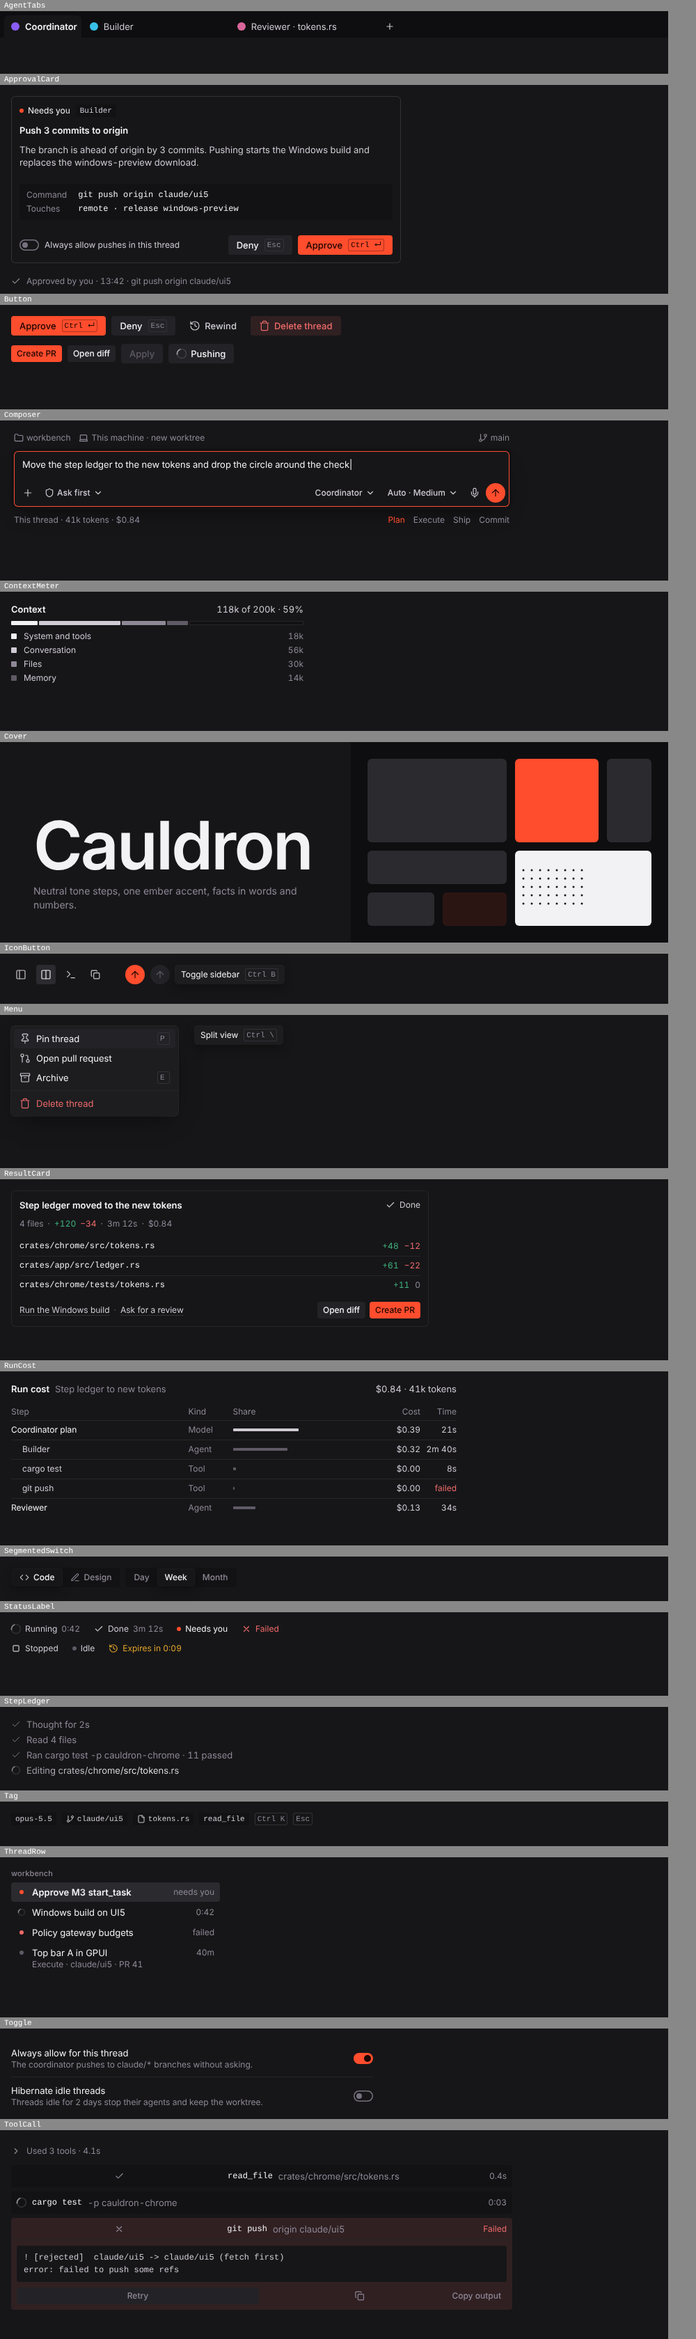
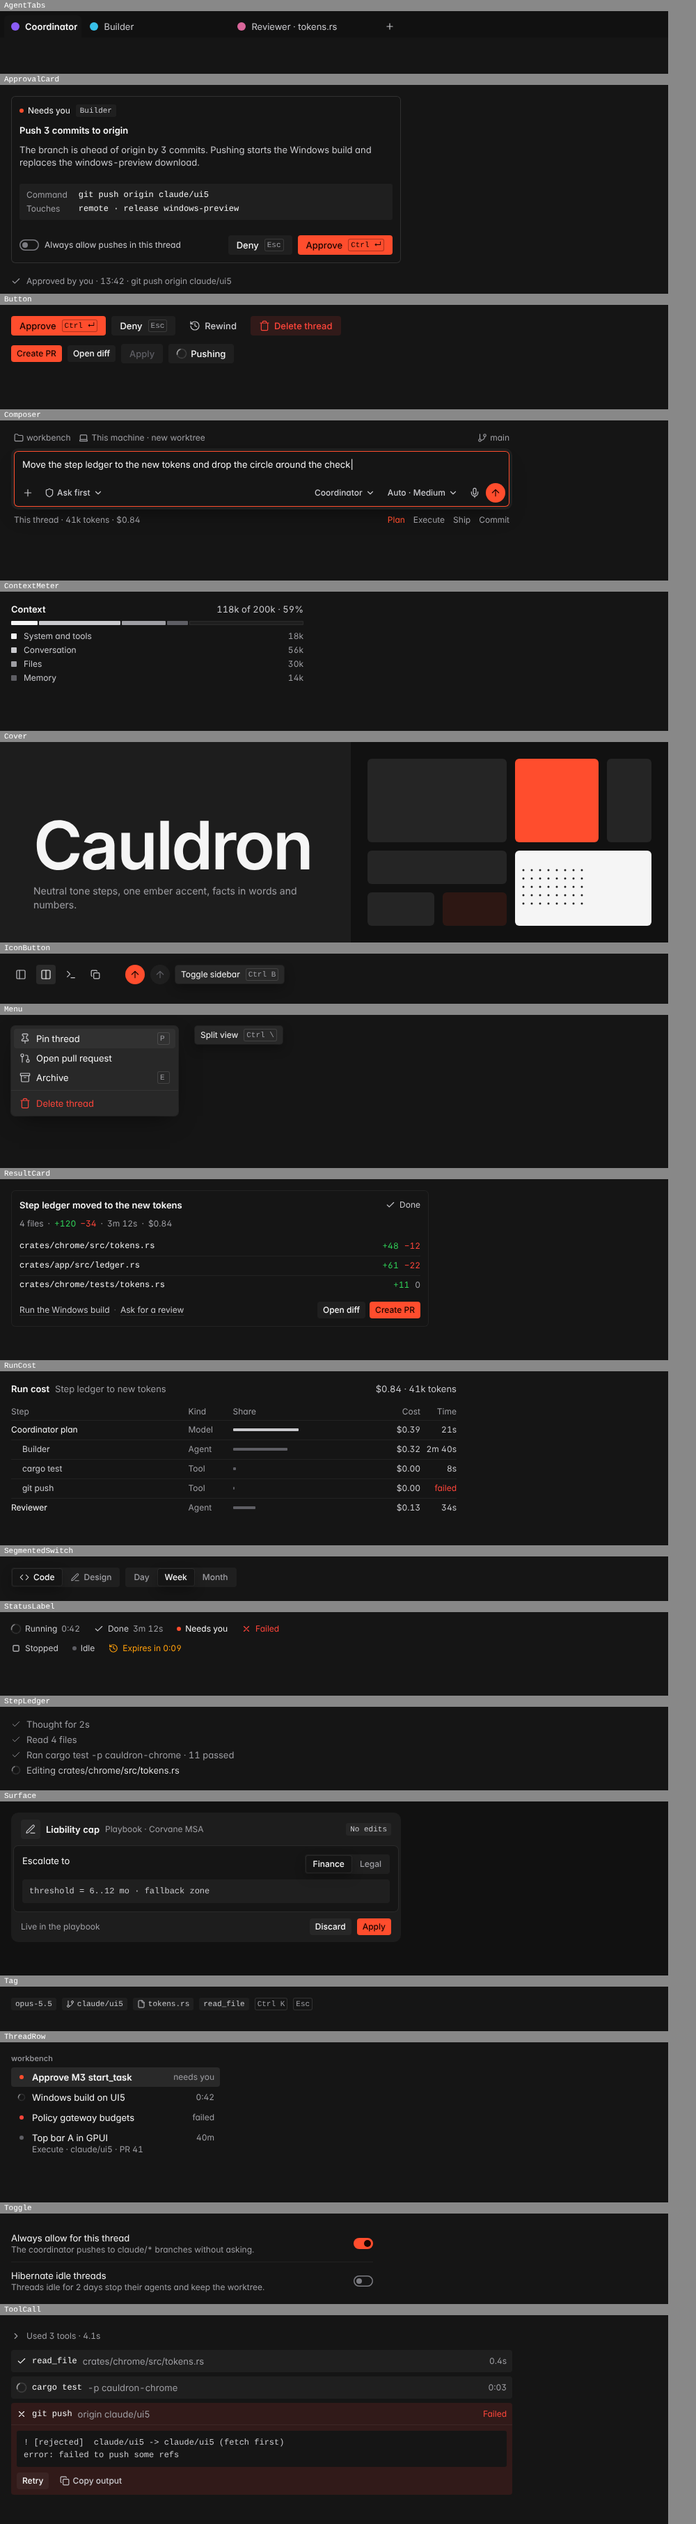
Rebase the Cauldron design system on Tuff UI: Geist, Tuff surface ramp, Shell/Panel/Inset [skip ci]
Claude-Session: https://claude.ai/code/session_01LKPD2KK9THFLwwwj91HXCf

Changed region(s): [[0.0, 0.0, 0.961, 1.0]]

diff --git a/design/cauldron-design-system/tokens.css b/design/cauldron-design-system/tokens.css
@@ -1,7 +1,7 @@
 /* Cauldron — generated from tokens.json */
-:root, [data-theme="light"] { --bg: #ecebee; --frame: #f3f2f4; --card: #ffffff; --raised: #ffffff; --inset: #f5f4f6; --hover: #ebeaed; --selected: #e6e4e9; --line: #e3e1e6; --line-strong: #d6d3db; --line-control: #8a8592; --fg: #18171b; --fg-2: #3f3c45; --fg-3: #68636f; --fg-4: #a7a2ae; --accent: #c9330f; --accent-hover: #b02b0a; --on-accent: #ffffff; --accent-soft: rgba(201,51,15,0.08); --focus: var(--accent); --ok: #23784f; --warn: #8a5a00; --bad: #b83232; --bad-soft: rgba(184,50,50,0.08); --warn-soft: rgba(138,90,0,0.10); --diff-add: rgba(35,120,79,0.10); --diff-del: rgba(184,50,50,0.08); --agent-1: #8b5cf6; --agent-2: #38c0e8; --agent-3: #3fb27f; --agent-4: #e0a32a; --agent-5: #d9669a; --agent-6: #5b8cf0; --agent-7: #e05656; --agent-8: #9a82f5; --agent-9: #e0703a; --shadow-menu: 0 12px 32px -12px rgba(20,18,24,0.28), 0 0 0 1px rgba(20,18,24,0.08); --shadow-tip: 0 6px 16px rgba(20,18,24,0.14), 0 0 0 1px rgba(20,18,24,0.06); --shadow-box: 0 16px 32px -18px rgba(20,18,24,0.30); }
-[data-theme="dark"] { --bg: #08080a; --frame: #0e0e10; --card: #161618; --raised: #1d1d20; --inset: #121214; --hover: #232327; --selected: #2a2a2f; --line: #26262a; --line-strong: #323237; --line-control: #77717f; --fg: #f2f1f4; --fg-2: #cfcad4; --fg-3: #8e8896; --fg-4: #5f5a66; --accent: #ff4d2d; --accent-hover: #ff6a4d; --on-accent: #1a0400; --accent-soft: rgba(255,77,45,0.12); --focus: var(--accent); --ok: #3fb27f; --warn: #e0a32a; --bad: #ef6a6a; --bad-soft: rgba(239,106,106,0.12); --warn-soft: rgba(224,163,42,0.12); --diff-add: rgba(63,178,127,0.14); --diff-del: rgba(239,106,106,0.12); --agent-1: #8b5cf6; --agent-2: #38c0e8; --agent-3: #3fb27f; --agent-4: #e0a32a; --agent-5: #d9669a; --agent-6: #5b8cf0; --agent-7: #e05656; --agent-8: #9a82f5; --agent-9: #e0703a; --shadow-menu: 0 12px 32px -12px rgba(0,0,0,0.6), 0 0 0 1px rgba(255,255,255,0.08); --shadow-tip: 0 6px 16px rgba(0,0,0,0.3), 0 0 0 1px rgba(255,255,255,0.06); --shadow-box: 0 16px 32px -18px rgba(0,0,0,0.65); color-scheme: dark; }
-:root { --space-2: 2px; --space-4: 4px; --space-6: 6px; --space-8: 8px; --space-12: 12px; --space-16: 16px; --space-20: 20px; --space-24: 24px; --space-32: 32px; --space-48: 48px; --radius-window: 10px; --radius-card: 6px; --radius-control: 4px; --radius-inner: 3px; --radius-round: 999px; --size-tag: 18px; --size-control-sm: 24px; --size-control: 28px; --size-control-lg: 32px; --size-row-2: 44px; --size-icon: 16px; --size-icon-sm: 14px; --dur-swap: 120ms; --dur-exit: 140ms; --dur-menu: 160ms; --dur-panel: 240ms; --dur-layout: 300ms; --dur-reduced: 150ms; --ease-settle: cubic-bezier(0.32, 0.72, 0, 1); --ease-out: cubic-bezier(0.23, 1, 0.32, 1); --font-sans: "Segoe UI Variable Text", "Segoe UI", -apple-system, "SF Pro Text", system-ui, sans-serif; --font-display: "Segoe UI Variable Display", "Segoe UI", -apple-system, "SF Pro Display", system-ui, sans-serif; --font-mono: "Cascadia Mono", "SF Mono", ui-monospace, Menlo, Consolas, monospace; }
+:root, [data-theme="light"] { --bg: #f7f7f8; --frame: #f7f7f8; --card: #eeeef0; --panel: #ffffff; --raised: #e4e4e7; --inset: rgba(28,28,31,0.04); --hover: rgba(28,28,31,0.05); --selected: rgba(28,28,31,0.09); --line: rgba(28,28,31,0.07); --line-strong: rgba(28,28,31,0.14); --line-control: #7e7e86; --fg: #1c1c1f; --fg-2: #45454c; --fg-3: #62626a; --fg-4: #a6a6ad; --accent: #bf2f0c; --accent-hover: #a82809; --on-accent: #ffffff; --accent-soft: rgba(191,47,12,0.08); --focus: var(--accent); --ok: #23784f; --warn: #8a5a00; --bad: #b83232; --bad-soft: rgba(184,50,50,0.08); --warn-soft: rgba(138,90,0,0.10); --diff-add: rgba(35,120,79,0.10); --diff-del: rgba(184,50,50,0.08); --agent-1: #8b5cf6; --agent-2: #38c0e8; --agent-3: #3fb27f; --agent-4: #e0a32a; --agent-5: #d9669a; --agent-6: #5b8cf0; --agent-7: #e05656; --agent-8: #9a82f5; --agent-9: #e0703a; --shadow-menu: 0 12px 32px -12px rgba(20,18,24,0.28), 0 0 0 1px rgba(20,18,24,0.08); --shadow-tip: 0 6px 16px rgba(20,18,24,0.14), 0 0 0 1px rgba(20,18,24,0.06); --shadow-box: 0 16px 32px -18px rgba(20,18,24,0.30); }
+[data-theme="dark"] { --bg: #111111; --frame: #111111; --card: #1d1d1d; --panel: #151515; --raised: #282828; --inset: rgba(245,245,245,0.05); --hover: rgba(245,245,245,0.05); --selected: rgba(245,245,245,0.09); --line: rgba(255,255,255,0.06); --line-strong: rgba(255,255,255,0.12); --line-control: #7c7c82; --fg: #f5f5f5; --fg-2: #c9c9cd; --fg-3: #9e9ea3; --fg-4: #5e5e64; --accent: #ff4d2d; --accent-hover: #ff6a4d; --on-accent: #1a0400; --accent-soft: rgba(255,77,45,0.12); --focus: var(--accent); --ok: #30d158; --warn: #ff9f0a; --bad: #ff453a; --bad-soft: rgba(255,69,58,0.12); --warn-soft: rgba(255,159,10,0.12); --diff-add: rgba(48,209,88,0.14); --diff-del: rgba(255,69,58,0.12); --agent-1: #8b5cf6; --agent-2: #38c0e8; --agent-3: #3fb27f; --agent-4: #e0a32a; --agent-5: #d9669a; --agent-6: #5b8cf0; --agent-7: #e05656; --agent-8: #9a82f5; --agent-9: #e0703a; --shadow-menu: 0 12px 32px -12px rgba(0,0,0,0.6), 0 0 0 1px rgba(255,255,255,0.08); --shadow-tip: 0 6px 16px rgba(0,0,0,0.3), 0 0 0 1px rgba(255,255,255,0.06); --shadow-box: 0 16px 32px -18px rgba(0,0,0,0.65); color-scheme: dark; }
+:root { --space-2: 2px; --space-4: 4px; --space-6: 6px; --space-8: 8px; --space-12: 12px; --space-16: 16px; --space-20: 20px; --space-24: 24px; --space-32: 32px; --space-48: 48px; --radius-window: 10px; --radius-card: 6px; --radius-control: 4px; --radius-inner: 3px; --radius-round: 999px; --size-tag: 18px; --size-control-sm: 24px; --size-control: 28px; --size-control-lg: 32px; --size-row-2: 44px; --size-icon: 16px; --size-icon-sm: 14px; --dur-swap: 120ms; --dur-exit: 140ms; --dur-menu: 160ms; --dur-panel: 240ms; --dur-layout: 300ms; --dur-reduced: 150ms; --ease-settle: cubic-bezier(0.32, 0.72, 0, 1); --ease-out: cubic-bezier(0.23, 1, 0.32, 1); --font-sans: Geist, "Segoe UI Variable Text", "Segoe UI", -apple-system, system-ui, sans-serif; --font-display: Geist, "Segoe UI Variable Display", "Segoe UI", -apple-system, system-ui, sans-serif; --font-mono: "Geist Mono", "Cascadia Mono", "SF Mono", ui-monospace, Menlo, Consolas, monospace; }
 .caption { font-family: var(--font-sans); font-size: 11px; line-height: 14px; font-weight: 500; letter-spacing: 0.01em; }
 .meta { font-family: var(--font-sans); font-size: 12px; line-height: 16px; font-weight: 400; }
 .label { font-family: var(--font-sans); font-size: 12px; line-height: 16px; font-weight: 500; }

diff --git a/design/cauldron-design-system/components/bundle.css b/design/cauldron-design-system/components/bundle.css
@@ -1,6 +1,7 @@
 /* Cauldron components. Every value comes from tokens.css; nothing here defines a colour. */
-.cx-root{margin:0;padding:16px;background:var(--card);color:var(--fg);font-family:var(--font-sans);font-size:13px;line-height:18px;font-variant-numeric:tabular-nums;-webkit-font-smoothing:antialiased}
+.cx-root{margin:0;padding:16px;font-feature-settings:"cv11","ss01";background:var(--panel);color:var(--fg);font-family:var(--font-sans);font-size:13px;line-height:18px;font-variant-numeric:tabular-nums;-webkit-font-smoothing:antialiased}
 .cx-root.on-frame{background:var(--frame)}
+.cx-root.on-shell{background:var(--card)}
 .cx-root *{box-sizing:border-box}
 .cx-stack{display:grid;gap:12px;align-content:start}
 .cx-row{display:flex;align-items:center;gap:8px;flex-wrap:wrap}
@@ -50,7 +51,7 @@
 /* Segmented switch */
 .cx-seg{display:inline-flex;padding:2px;gap:2px;border-radius:var(--radius-control);background:var(--inset)}
 .cx-seg button{display:inline-flex;align-items:center;gap:6px;height:var(--size-control-sm);padding:0 10px;border:0;border-radius:var(--radius-inner);background:transparent;color:var(--fg-3);font:500 12px/16px var(--font-sans);cursor:pointer}
-.cx-seg button[aria-pressed="true"]{background:var(--card);color:var(--fg);box-shadow:var(--shadow-tip)}
+.cx-seg button[aria-pressed="true"]{background:var(--panel);color:var(--fg);box-shadow:var(--shadow-tip)}
 .cx-seg .cx-ico{width:14px;height:14px}
 
 /* Toggle */
@@ -83,7 +84,7 @@
 .cx-tabs{display:flex;align-items:flex-end;gap:2px;background:var(--frame);padding:6px 6px 0}
 .cx-tab{display:flex;align-items:center;gap:8px;height:var(--size-control-lg);min-width:72px;max-width:210px;flex:1 1 160px;padding:0 6px 0 10px;border-radius:var(--radius-card) var(--radius-card) 0 0;color:var(--fg-2);font-size:13px}
 .cx-tab:hover{background:var(--hover)}
-.cx-tab.on{background:var(--card);color:var(--fg);font-weight:600}
+.cx-tab.on{background:var(--panel);color:var(--fg);font-weight:600}
 .cx-tab .av{width:12px;height:12px;border-radius:50%;flex:none}
 .cx-tab .nm{flex:1;min-width:0;overflow:hidden;text-overflow:ellipsis;white-space:nowrap}
 .cx-tab .x{opacity:0}
@@ -107,11 +108,11 @@
 .cx-tool.bad{background:var(--bad-soft)}
 .cx-tool.bad .end{color:var(--bad)}
 .cx-tool .bd{display:grid;gap:8px;padding:8px;box-shadow:0 -1px 0 var(--line)}
-.cx-code{margin:0;padding:8px 10px;border-radius:var(--radius-inner);background:var(--card);font:12px/18px var(--font-mono);color:var(--fg-2);white-space:pre;overflow:auto;max-height:220px}
+.cx-code{margin:0;padding:8px 10px;border-radius:var(--radius-inner);background:var(--panel);font:12px/18px var(--font-mono);color:var(--fg-2);white-space:pre;overflow:auto;max-height:220px}
 .cx-tools-hd{display:flex;align-items:center;gap:8px;height:28px;color:var(--fg-3);font-size:12px}
 
 /* Approval */
-.cx-approve{border-radius:var(--radius-card);background:var(--card);box-shadow:inset 0 0 0 1px var(--line-strong);padding:12px;display:grid;gap:10px}
+.cx-approve{border-radius:var(--radius-card);background:var(--panel);box-shadow:inset 0 0 0 1px var(--line-strong);padding:12px;display:grid;gap:10px}
 .cx-approve .top{display:flex;align-items:center;gap:8px}
 .cx-approve .ttl{font-weight:600}
 .cx-approve .why{color:var(--fg-2)}
@@ -123,7 +124,7 @@
 .cx-resolved{display:flex;align-items:center;gap:8px;height:28px;font-size:12px;color:var(--fg-3)}
 
 /* Result card */
-.cx-result{border-radius:var(--radius-card);background:var(--card);box-shadow:inset 0 0 0 1px var(--line);padding:12px;display:grid;gap:10px}
+.cx-result{border-radius:var(--radius-card);background:var(--panel);box-shadow:inset 0 0 0 1px var(--line);padding:12px;display:grid;gap:10px}
 .cx-result .hd{display:flex;align-items:center;gap:8px}
 .cx-result .hd .ttl{flex:1;font-weight:600}
 .cx-facts{font-size:12px;line-height:16px;color:var(--fg-3);display:flex;gap:6px;flex-wrap:wrap}
@@ -176,7 +177,7 @@
 
 /* Composer */
 .cx-composer{border-radius:var(--radius-window);background:var(--inset);padding:4px;box-shadow:var(--shadow-box)}
-.cx-composer .body{border-radius:var(--radius-card);background:var(--card);box-shadow:inset 0 0 0 1px var(--line-strong);padding:10px 12px 6px}
+.cx-composer .body{border-radius:var(--radius-card);background:var(--panel);box-shadow:inset 0 0 0 1px var(--line-strong);padding:10px 12px 6px}
 .cx-composer.focus .body{box-shadow:inset 0 0 0 1px var(--accent)}
 .cx-composer .ph{color:var(--fg-3);min-height:36px}
 .cx-composer .txt{color:var(--fg);min-height:36px}
@@ -190,3 +191,12 @@
 .cx-under{display:flex;gap:12px;padding:6px 4px 0;font-size:12px;color:var(--fg-3)}
 .cx-under .sp{flex:1}
 .cx-under .cur{color:var(--accent)}
+
+/* Surface: Shell > Panel > Inset (Tuff layering, Cauldron radii) */
+.cx-shell{background:var(--card);border-radius:var(--radius-window);padding:4px;display:grid;gap:4px}
+.cx-shell .hd,.cx-shell .ft{display:flex;align-items:center;gap:8px;padding:6px 10px;font-size:12px;line-height:16px;color:var(--fg-3)}
+.cx-shell .hd b{font-size:13px;line-height:18px;font-weight:600;color:var(--fg)}
+.cx-shell .hd .sp,.cx-shell .ft .sp{flex:1}
+.cx-panel{background:var(--panel);border-radius:var(--radius-card);padding:12px;display:grid;gap:8px;box-shadow:0 0 0 1px var(--line)}
+.cx-well{background:var(--inset);border-radius:var(--radius-control);padding:8px 10px;font:12px/18px var(--font-mono);color:var(--fg-2)}
+.cx-iconTile{width:28px;height:28px;border-radius:var(--radius-control);background:var(--inset);display:grid;place-items:center;color:var(--fg-2)}

diff --git a/design/cauldron-design-system/components/Surface/preview.html b/design/cauldron-design-system/components/Surface/preview.html
@@ -1,0 +1,15 @@
+<!-- @dsCard group="Foundations" height=250 -->
+<!doctype html>
+<html>
+<head><meta charset="utf-8"><title>preview</title></head>
+<body class="cx-root on-frame">
+<div class="cx-shell" style="max-width:560px">
+<div class="hd"><span class="cx-iconTile"><svg class="cx-ico" viewBox="0 0 24 24"><path d="M12 20h9"/><path d="M16.38 3.62a1 1 0 0 1 3 3L7.37 18.64a2 2 0 0 1-.86.5l-2.87.84a.5.5 0 0 1-.62-.62l.84-2.87a2 2 0 0 1 .5-.86z"/></svg></span><b>Liability cap</b><span>Playbook · Corvane MSA</span><span class="sp"></span><span class="cx-tag">No edits</span></div>
+<div class="cx-panel">
+<div style="display:flex;justify-content:space-between"><span>Escalate to</span><span class="cx-seg"><button aria-pressed="true">Finance</button><button aria-pressed="false">Legal</button></span></div>
+<div class="cx-well">threshold = 6..12 mo · fallback zone</div>
+</div>
+<div class="ft"><span>Live in the playbook</span><span class="sp"></span><button class="cx-btn sm">Discard</button><button class="cx-btn sm primary">Apply</button></div>
+</div>
+</body>
+</html>

diff --git a/design/cauldron-design-system/GPUI.md b/design/cauldron-design-system/GPUI.md
@@ -1,38 +1,40 @@
 # GPUI mapping
 
-How these tokens land in `crates/chrome` (the GPUI token crate). Values here win over `tokens.rs` today; regenerate `tests/golden/wireframe.json` after the change and read the diff as a design change.
+How these tokens land in `crates/chrome` (the GPUI token crate). The palette now follows Tuff UI's neutral ramp; the accent, radii and motion are Cauldron's. Regenerate `tests/golden/wireframe.json` after the change and read the diff as a design change.
 
 ## Palette fields
 
 | `tokens.rs` field | Token | Light | Dark | Change from today |
 | --- | --- | --- | --- | --- |
-| `bg` | `bg` | #ecebee | #08080a | was #e9e8e5 / #09090a |
-| `frame` | `frame` | #f3f2f4 | #0e0e10 | was #e4e3df / #0c0c0d |
-| `card` | `card` | #ffffff | #161618 | light was #f7f7f5 |
-| `raised` | `raised` | #ffffff | #1d1d20 | dark was #1f1f22 |
-| `well` | `inset` | #f5f4f6 | #121214 | renamed; dark now sits below the card |
-| `line` | `line` | #e3e1e6 | #26262a | was #dcdbd7 / #2e2e32 |
-| `strip` | `line-strong` | #d6d3db | #323237 | the Hoplite band becomes a ring |
-| (new) | `line-control` | #8a8592 | #77717f | add |
-| (new) | `hover`, `selected` | #ebeaed, #e6e4e9 | #232327, #2a2a2f | add |
-| `fg`, `fg2`, `fg3` | `fg`, `fg-2`, `fg-3` | #18171b, #3f3c45, #68636f | #f2f1f4, #cfcad4, #8e8896 | retuned for 4.5:1 on hover |
-| (new) | `fg-4` | #a7a2ae | #5f5a66 | disabled only |
-| `accent` | `accent` | #c9330f | #ff4d2d | unchanged |
-| `on_accent` | `on-accent` | #ffffff | #1a0400 | unchanged |
-| `ok`, `warn`, `bad` | same | #23784f, #8a5a00, #b83232 | #3fb27f, #e0a32a, #ef6a6a | light darkened to pass 4.5:1 |
-| `run` | none | | | drop: running is a spinner in `fg-2` |
-| `info`, `design`, `mem` | none | | | drop: Code/Design/Memory are told apart by icon and word |
+| `bg`, `frame` | `bg`, `frame` | #f7f7f8 | #111111 | the same value now; was two values |
+| `card` | `card` (Shell) | #eeeef0 | #1d1d1d | light is now a grey tray; dark is lighter than the window |
+| (new) | `panel` (Panel) | #ffffff | #151515 | content surface inside the shell |
+| `raised` | `raised` | #e4e4e7 | #282828 | menus, tooltips |
+| `well` | `inset` | fg at 4% | fg at 5% | now an alpha overlay, not a solid |
+| (new) | `hover`, `selected` | fg at 5%, 9% | fg at 5%, 9% | alpha overlays |
+| `line` | `line` | fg at 7% | white at 6% | Tuff border |
+| `strip` | `line-strong` | fg at 14% | white at 12% | the Hoplite band becomes a ring |
+| (new) | `line-control` | #7e7e86 | #7c7c82 | 3:1 control edges |
+| `fg`, `fg2`, `fg3` | `fg`, `fg-2`, `fg-3` | #1c1c1f, #45454c, #62626a | #f5f5f5, #c9c9cd, #9e9ea3 | Tuff foreground and muted-foreground; light fg-3 darkened to pass 4.5:1 on hover and raised |
+| (new) | `fg-4` | #a6a6ad | #5e5e64 | disabled only |
+| `accent` | `accent` | #bf2f0c | #ff4d2d | light darkened a step to hold 4.5:1 on the grey shell |
+| `ok`, `warn`, `bad` | same | #23784f, #8a5a00, #b83232 | #30d158, #ff9f0a, #ff453a | dark values are Tuff's positive, warning, negative |
+| `run`, `info`, `design`, `mem` | none | | | drop |
 
-`AGENT_DOTS` stays as `agent-1` to `agent-9`. `shadow::MENU`, `TIP`, `BOX` keep their geometry; MENU and TIP gain the 1px ring shown in `shadow-menu` and `shadow-tip` (draw it as a 1px border in GPUI). `radius::*` and `motion::time::*` are unchanged; `dur-exit` (140ms) is new.
+`AGENT_DOTS` stays as `agent-1` to `agent-9`. Alpha overlays need compositing in `Rgb`; add an `Rgba` type and a `over(surface)` helper, and add contrast tests per surface. `shadow::MENU` and `TIP` gain the 1px ring from `shadow-menu` and `shadow-tip`.
+
+## Fonts
+
+Bundle Geist (variable, 100 to 900) and Geist Mono with the app and register them at startup; GPUI does not read system fonts that are not installed. Family names: "Geist" and "Geist Mono". The `cv11` and `ss01` sets must be switched on in each text run. Check that GPUI's font features API accepts them before committing to this; if it does not, ship static instances with the alternates baked in.
 
 ## Text styles
 
-GPUI has no CSS classes: add a `type` module with one `TextStyle` constant per style (`CAPTION`, `META`, `LABEL`, `BODY`, `BODY_STRONG`, `READING`, `TITLE`, `HEADING`, `DISPLAY`, `MONO`, `MONO_TAG`) holding size, line height and weight. Font family: "Segoe UI Variable Text" on Windows, ".SystemUIFont" on macOS; mono "Cascadia Mono" / "SF Mono". Enable tabular figures (`tnum`) on META and on any element that shows a timer or a count.
+Add a `type` module with one `TextStyle` constant per style (`CAPTION`, `META`, `LABEL`, `BODY`, `BODY_STRONG`, `READING`, `TITLE`, `HEADING`, `DISPLAY`, `MONO`, `MONO_TAG`) holding size, line height and weight. Tabular figures on META and any timer or count.
 
 ## Components
 
-Each component page lists exact sizes. Build order that unblocks the most screens: Button, IconButton, StatusLabel, Tag, ThreadRow, Composer, StepLedger, ToolCall, then ApprovalCard, ResultCard, Menu, AgentTabs, SegmentedSwitch, Toggle, ContextMeter, RunCost.
+Each component page lists exact sizes. Build order: Surface, Button, IconButton, StatusLabel, Tag, ThreadRow, Composer, StepLedger, ToolCall, then ApprovalCard, ResultCard, Menu, AgentTabs, SegmentedSwitch, Toggle, ContextMeter, RunCost.
 
 ## Licence notice
 
-ToolCall's layout follows the affectUI Tool Call Card, which is MIT licensed. No code was copied; if any is ported, keep its MIT notice in `THIRD_PARTY_NOTICES.md`. Tuff UI (MIT) informed the tone-step surfaces. affectUI Pro and Profound's Palermo were studied only from their public pages; nothing from them is reproduced.
+Tuff UI is MIT ("Copyright (c) 2026 TUFFUI contributors"): colour values, the Surface layering and the motion curves are taken from it, so keep that notice in `THIRD_PARTY_NOTICES.md`. Geist and Geist Mono are SIL OFL 1.1: ship the licence text beside the font files. affectUI's free pieces are MIT. Components not taken from a free source are drawn for Cauldron.

diff --git a/design/cauldron-design-system/README.md b/design/cauldron-design-system/README.md
@@ -10,8 +10,8 @@ Cauldron is a desktop app for running coding agents. The interface is a quiet in
 
 ## Surfaces and depth
 
-- Stack surfaces in tone, not lines: `frame` (window, sidebar, top bar) holds `card` (the main card), which holds `inset` (tool rows, code, tags, switch tracks).
-- Cards take no shadow and no outline. Only overlays lift: menus and popovers use `raised` with `shadow-menu`, tooltips `shadow-tip`, the composer `shadow-box`.
+- Stack surfaces in tone, not lines, as Tuff UI's Surface does: `bg`/`frame` (window, sidebar, top bar) holds a Shell (`card`), which holds a Panel (`panel`), which holds Insets (`inset`: tool rows, code, tags, switch tracks). In light the panel is white on a grey shell; in dark it is darker than the shell.
+- Shells and panels take no shadow; a panel gets a 1px `line` ring. Only overlays lift: menus and popovers use `raised` with `shadow-menu`, tooltips `shadow-tip`, the composer `shadow-box`.
 - Hairlines (`line`) separate rows inside a card. `line-strong` is for the composer edge, menu rings and Kbd. `line-control` (3:1) is for edges that carry meaning, such as an off toggle.
 - Hover is a fill (`hover`), selection a deeper fill (`selected`). Never show hover or selection with a border or an accent bar.
 
@@ -27,7 +27,7 @@ Cauldron is a desktop app for running coding agents. The interface is a quiet in
 ## Type
 
 - UI text is `body` (13/18). Metadata is `meta` (12/16). Agent prose in the thread is `reading` (14/22, max 72ch). Card titles are `title` (15/20); page headings `heading`; `display` only on first run and empty states.
-- Windows uses Segoe UI Variable (Text below 20px, Display above), macOS uses SF Pro. Mono is Cascadia Mono on Windows and SF Mono on macOS.
+- The face is Geist, the same as Tuff UI (SIL Open Font License, so it may be bundled), with Geist Mono for code. Switch on the stylistic sets `cv11` and `ss01` everywhere, as Tuff does. Bundle the Geist and Geist Mono font files with the app: Windows and macOS do not ship them. Fall back to Segoe UI Variable on Windows and SF Pro on macOS.
 - Identifiers are mono (`mono-tag` in tags): models, branches, files, tools, commands. Prose is never mono.
 - Turn on tabular numerals for every number that changes or lines up.
 - Two weights: 400 and 600 for text, 500 for controls and labels. No 700, no italics in chrome.

diff --git a/design/cauldron-design-system/components/Surface/README.md b/design/cauldron-design-system/components/Surface/README.md
@@ -1,0 +1,9 @@
+# Surface
+
+The three layers every card is made of: a Shell (tray), a Panel (content) and an Inset (well). This is the structure Tuff UI's Surface uses, on Cauldron's radii.
+
+- Shell: `card` fill, `radius-window` (10), 4px padding. Header and footer sit in the shell's padding, outside the panel: an optional 28px icon tile, a `body-strong` title, a `meta` subtitle, an aside on the right.
+- Panel: `panel` fill, `radius-card` (6), 12px padding, a 1px `line` ring. In light it is whiter than the shell, in dark it is darker (recessed). Radii nest: window 10 = card 6 + 4px padding.
+- Inset: `inset` fill (foreground at 4-5%), `radius-control`, `mono` 12px. Code, payloads, details.
+- Depth comes from these tone steps. No drop shadow on a shell or a panel; only overlays and the composer lift.
+- Do not put a panel inside a panel; go to an inset instead.

diff --git a/design/cauldron-design-system/components/ThreadRow/README.md b/design/cauldron-design-system/components/ThreadRow/README.md
@@ -6,4 +6,5 @@ One thread in the sidebar: a lead mark, the title, and one trailing fact.
 - Lead mark (14px slot): `fg-4` dot idle, spinner running, `accent` dot needs you, `bad` dot failed. Only needs-you and failed use colour.
 - Unread: title in `body-strong`. Selected: `selected` fill. Hover: `hover` fill. `radius-control`.
 - Trailing fact: time since last activity, a live timer while running, or the word for needs-you/failed. Tabular numerals.
-- Group rows under a `caption` repository label. Hide no state behind hover; reveal only actions (archive, pin) on hover.
+- Group rows by state under a `caption` label (Needs you, Running, Done), as in wireframe round 3; the repository shows as a grey `Tag` at the row's end instead of a group header.
+- Group rows under a `caption` label. Hide no state behind hover; reveal only actions (archive, pin) on hover.
